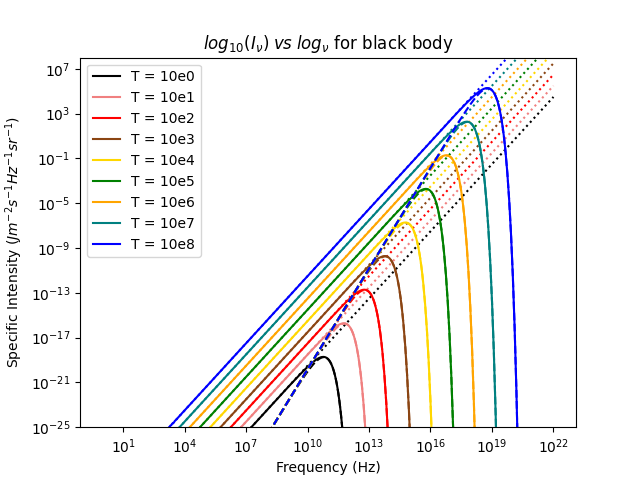
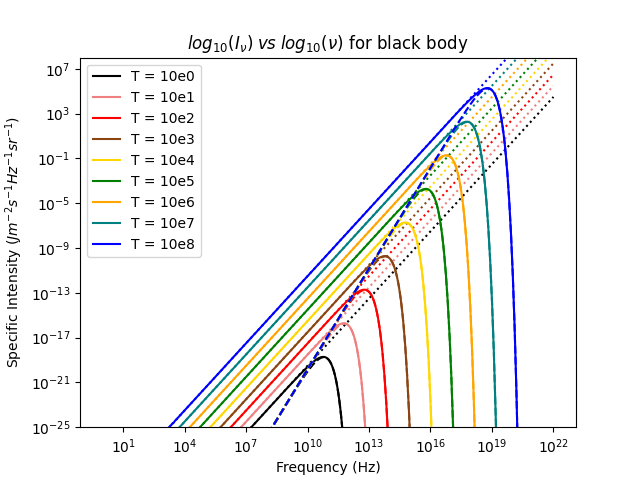
Add files via upload

Changed region(s): [[0.2812, 0.0625, 0.7188, 0.125]]

diff --git a/Assignment 1/q5.py b/Assignment 1/q5.py
@@ -29,7 +29,7 @@ for i in range(len(t)):
     plt.plot(v, wien(v),'--',color=color[i])
     plt.yscale('log')
     plt.xscale('log')
-plt.title(r'$log_{10}(I_\nu)\;vs\; log_{\nu}$ for black body')
+plt.title(r'$log_{10}(I_\nu)\;vs\; log_{10}(\nu)$ for black body')
 plt.legend()
 #plt.xlim([1e2,1e22])
 plt.ylim([1e-25,1e8])
